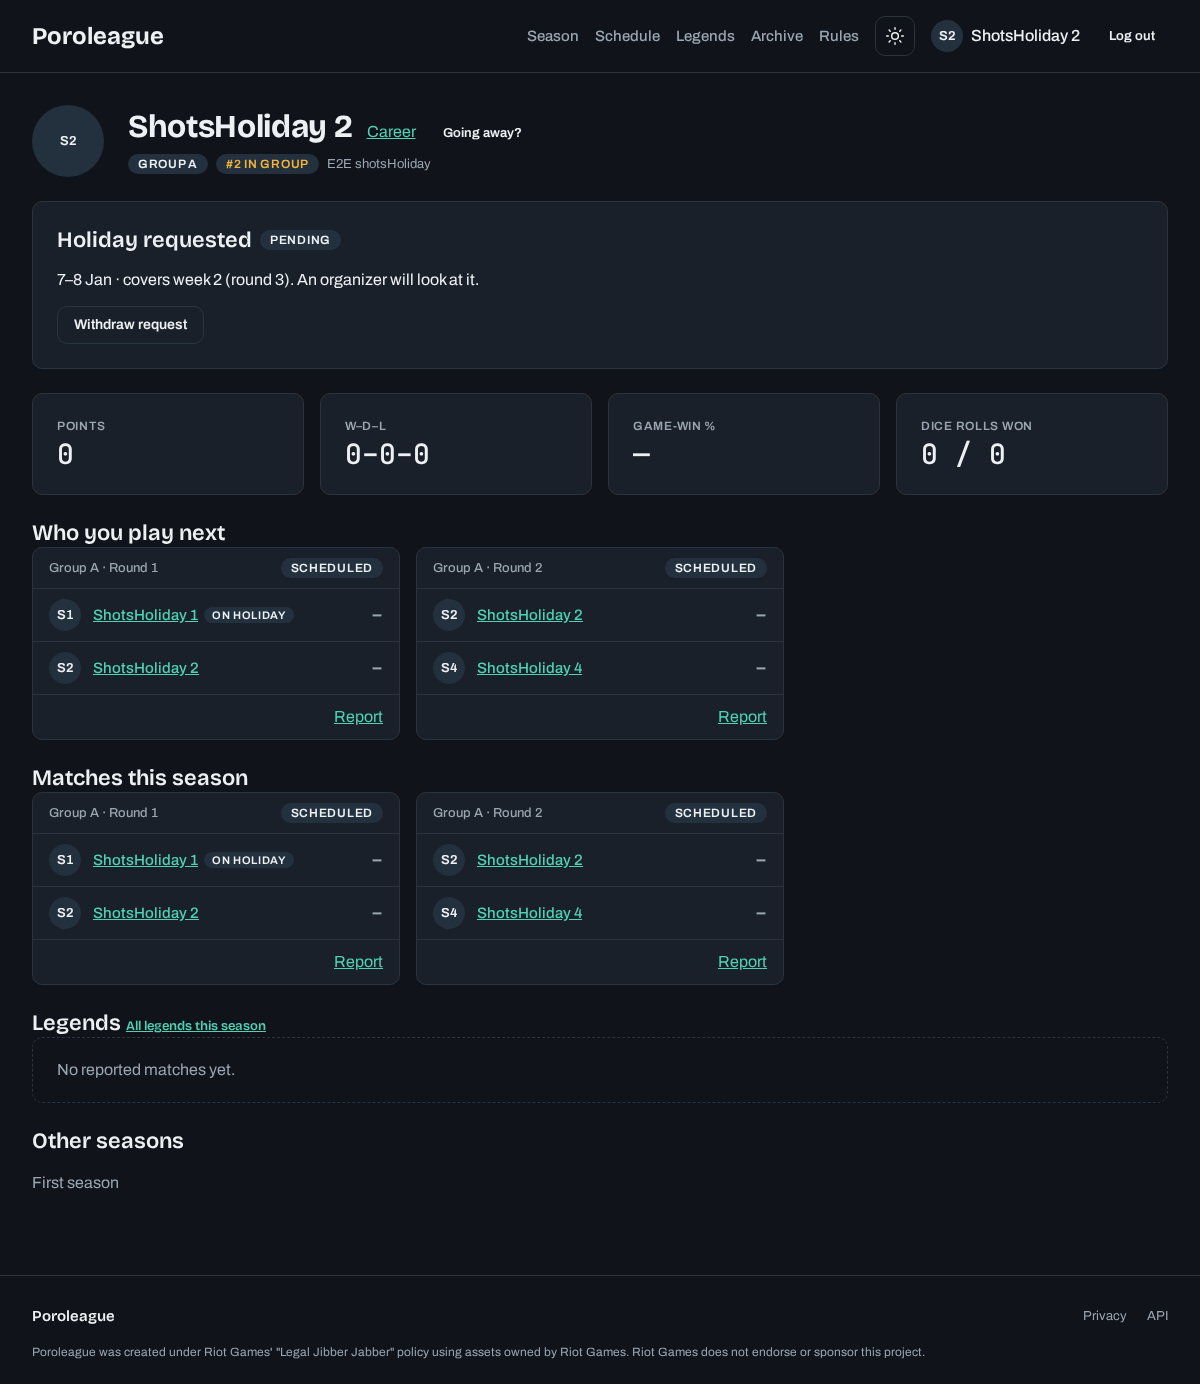
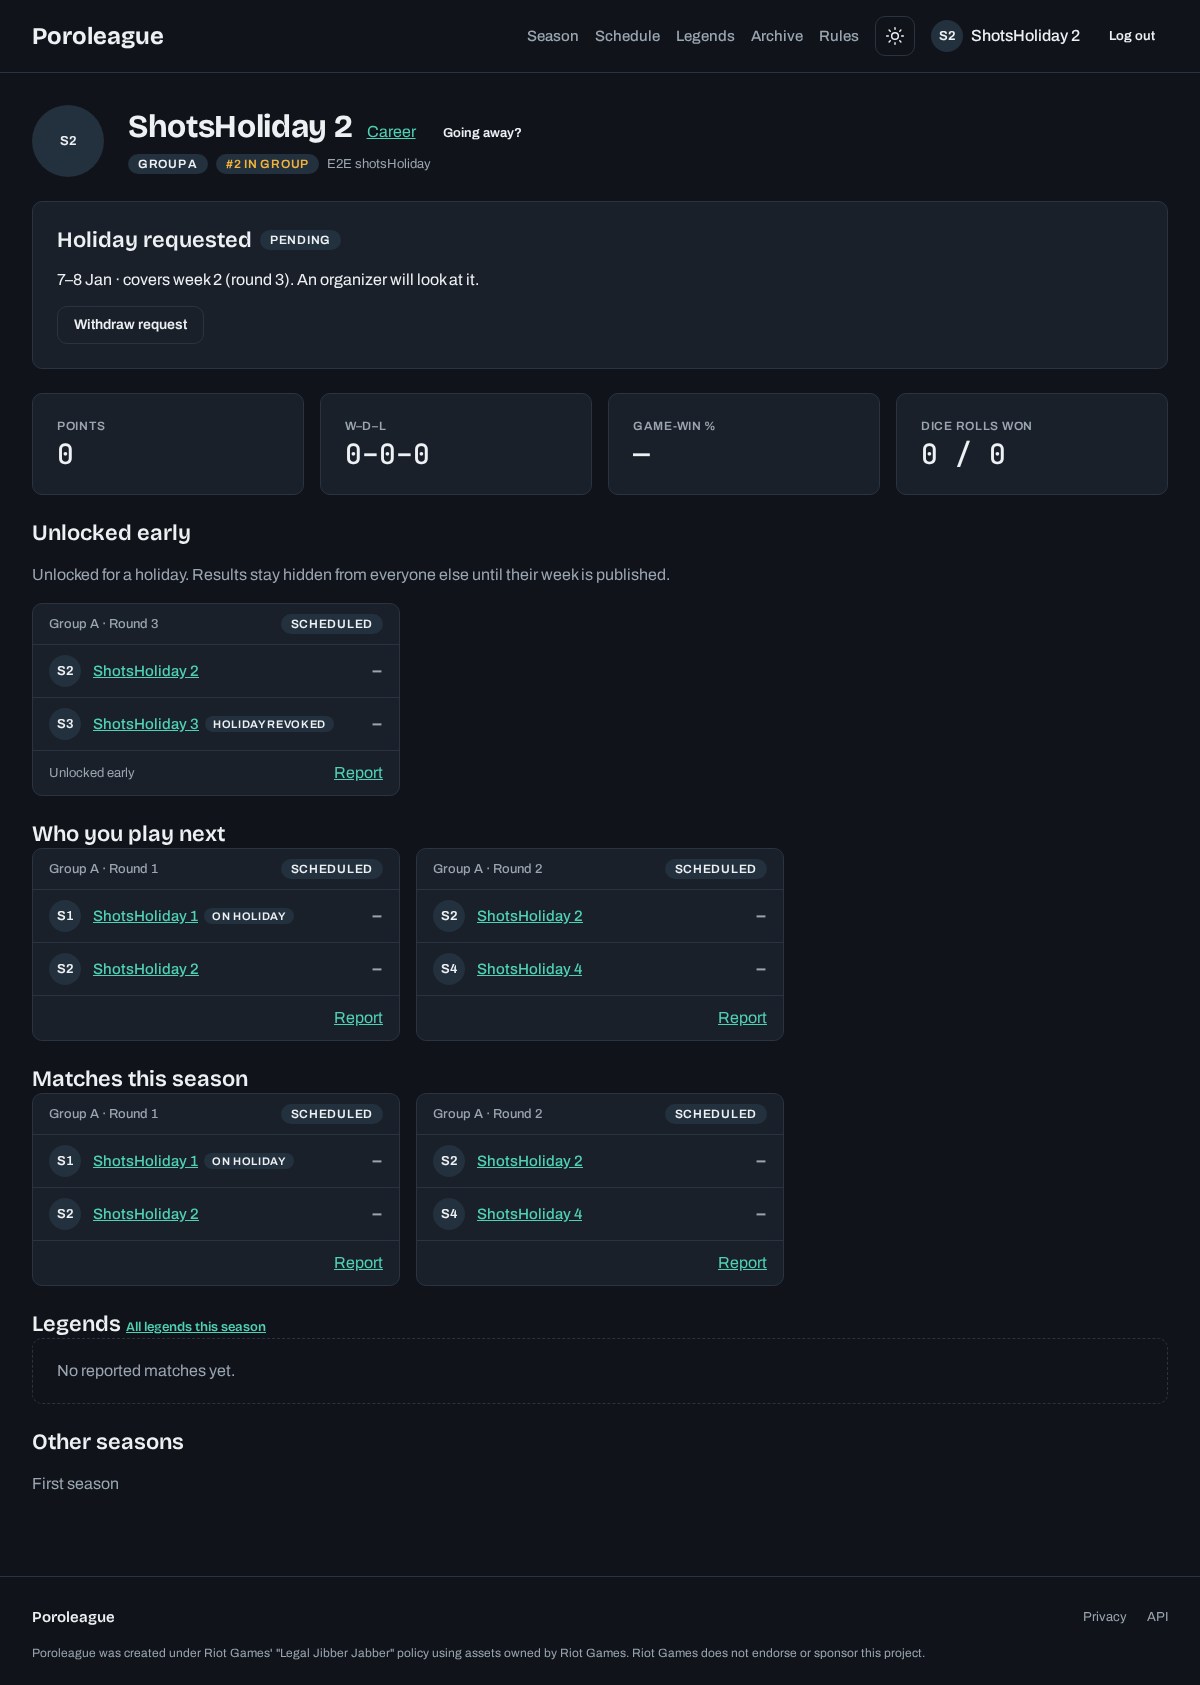
test(shots): a revoked holiday's unlocked match

diff --git a/shots/holiday.spec.ts b/shots/holiday.spec.ts
@@ -1,5 +1,5 @@
-// Holiday mode: requests, the organizer's Holidays section, matches unlocked early, and the end of
-// the season waiting for every week to be published.
+// Holiday mode: requests, the organizer's Holidays section, matches unlocked early (and a
+// revoked holiday's), and the end of the season waiting for every week to be published.
 import { test } from '@playwright/test';
 import { freezeTimes, removeSeason, seedHoliday, seedResult, seedSeason } from '../e2e/db.ts';
 import { ORGANIZER as org, SEASONS, player } from '../e2e/fixtures.ts';
@@ -7,7 +7,7 @@ import { NOW, day } from './now.ts';
 import { shot } from './shot.ts';
 
 const s = `/seasons/${SEASONS.shotsHoliday}`;
-const [p1, p2] = [player('shotsHoliday', 1), player('shotsHoliday', 2)];
+const [p1, p2, p3] = [1, 2, 3].map((n) => player('shotsHoliday', n));
 
 test.afterAll(() => removeSeason('shotsHoliday'));
 
@@ -20,11 +20,13 @@ test('holidays', async ({ browser }) => {
 	});
 	seedHoliday('shotsHoliday', 1, day(-1), day(6), 'approved');
 	seedHoliday('shotsHoliday', 2, day(5), day(6));
+	seedHoliday('shotsHoliday', 3, day(5), day(6), 'revoked');
 	freezeTimes(NOW);
 	await shot(browser, 'player-holiday-pending', `${s}/players/${p2}`, p2);
 	await shot(browser, 'org-season-holidays', `${s}/admin/season`, org);
 	await shot(browser, 'player-holiday-unlocked', `${s}/players/${p1}`, p1);
 	await shot(browser, 'player-match-early', `${s}/matches/${ids[4]}`, p1);
+	await shot(browser, 'player-holiday-revoked', `${s}/players/${p3}`, p3);
 	seedResult(ids[4], 2, 1);
 	freezeTimes(NOW);
 	await shot(browser, 'player-match-early-reported', `${s}/matches/${ids[4]}`, p1);

diff --git a/e2e/db.ts b/e2e/db.ts
@@ -179,7 +179,7 @@ export const seedHoliday = (
 	n: number,
 	from: string,
 	to: string,
-	status: 'pending' | 'approved' = 'pending'
+	status: 'pending' | 'approved' | 'revoked' = 'pending'
 ) =>
 	write((db) => {
 		db.prepare(
